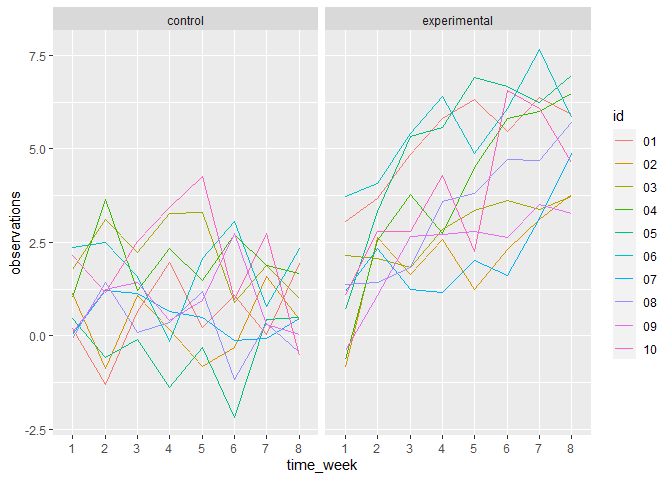
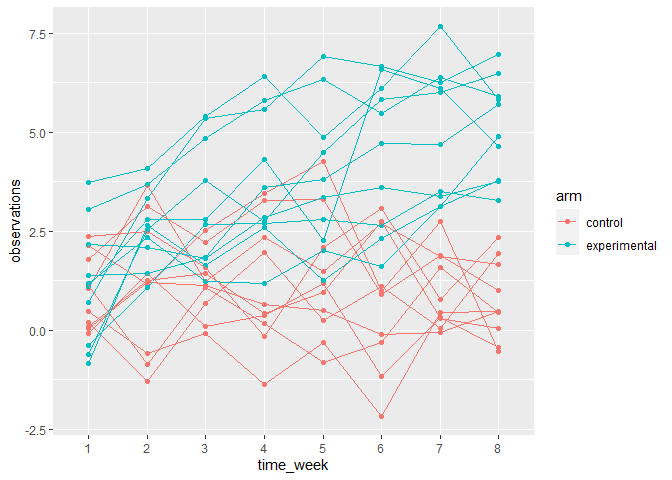
final_version

diff --git a/p8105_hw5_yt2785.md b/p8105_hw5_yt2785.md
@@ -255,9 +255,11 @@ longitudinal_df
     ## # ... with 150 more rows
 
 ``` r
-ggplot(data = longitudinal_df, aes(x = time_week, y = observations, color = id)) +
-  geom_line(aes(group = id)) +
-  facet_grid(. ~ arm)
+longitudinal_df %>% 
+  mutate(group = str_c(arm, id, sep = "_")) %>% 
+ggplot(aes(x = time_week, y = observations, color = arm)) +
+  geom_point() +
+  geom_line(aes(group = group))
 ```
 
 ![](p8105_hw5_yt2785_files/figure-gfm/unnamed-chunk-9-1.png)<!-- -->
